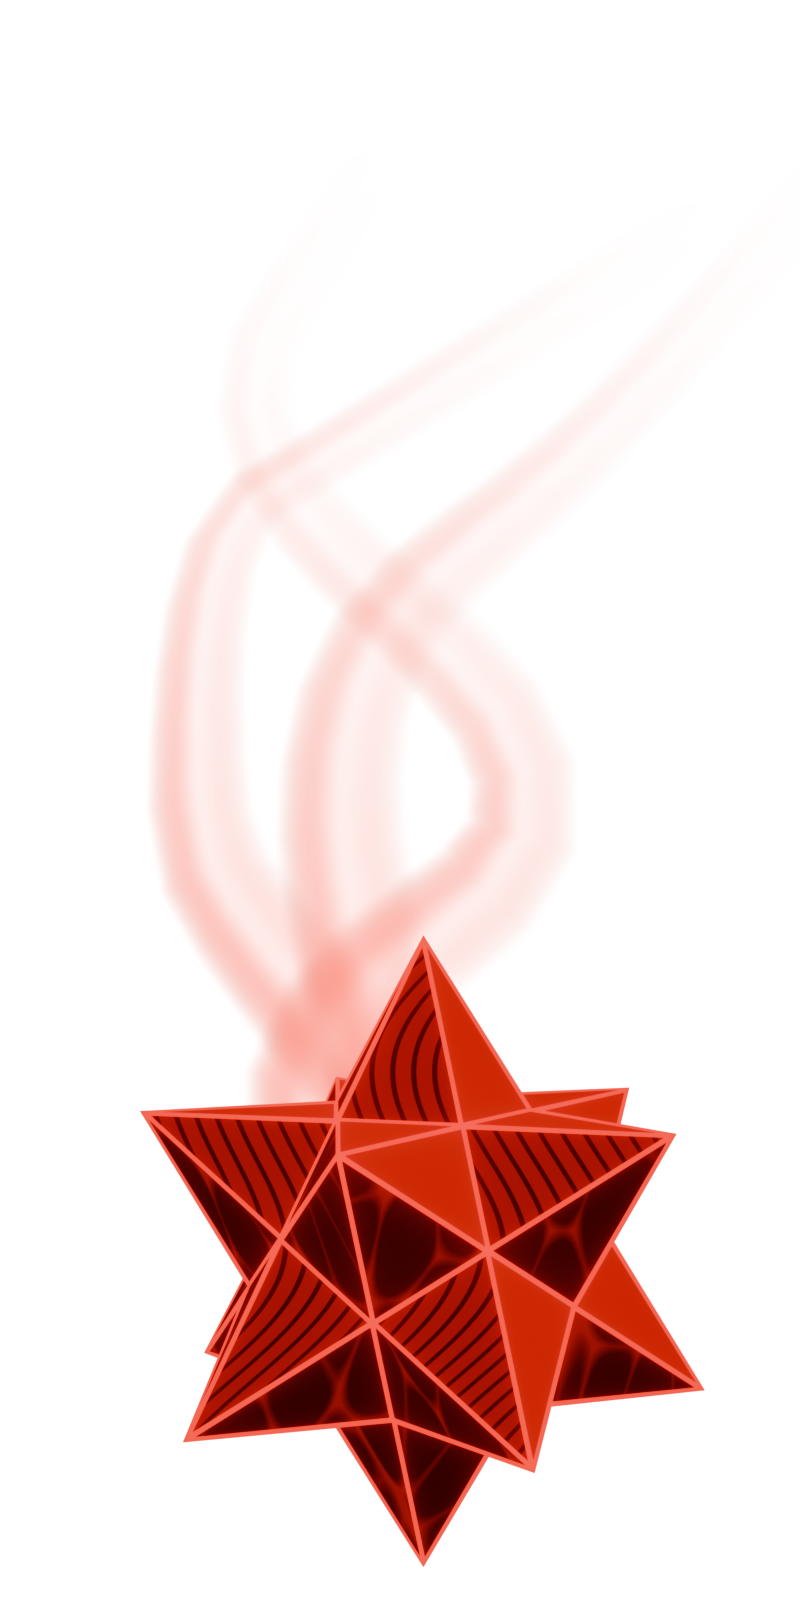
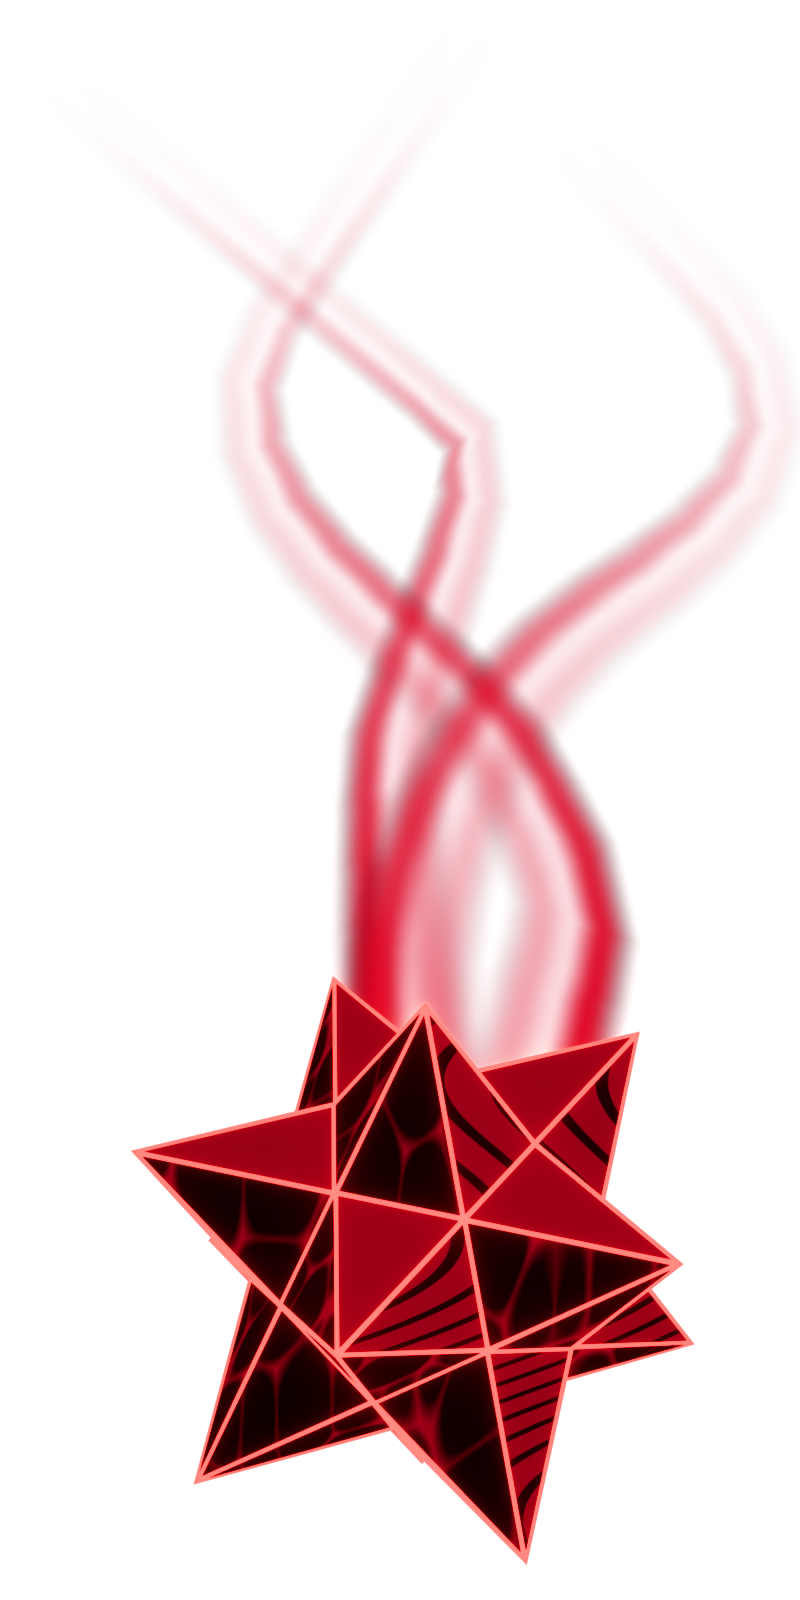
quality updates

Changed region(s): [[0.1562, 0.1562, 0.9688, 0.9688]]

diff --git a/skills.html b/skills.html
@@ -20,22 +20,29 @@
 	<main class="skills-container">
 		
 		<div class="flex-area" style="width: 100%; flex: 1 0 100%; height: fit-content; gap: 10px">
-			<h2>In general</h2>
+			<h2 class="comment">"Art is born from chaos, chaos is born from math"</h2>
 			<p>I see <span class="emphasis">math</span> and <span class="emphasis">science</span> 
 				as forms of <span class="emphasis">art</span> — this perspective is what fuels my passion and curiosity.</p>
 			<p>I have experience working both independently and in teams, with over four years of collaboration and leadership starting from high school.</p>
-			<p>I'm results-oriented and always eager to consider all ideas before moving forward.</p>
+			<p>I'm results-oriented and always eager to consider all ideas before moving forward, taking responsibility for my tasks.</p>
 		</div>
 		<div class="flex-area" style="gap: 20px; flex: 1 0 50%;">
-			<h2>Programming skills</h2>
+			<h2>Technical skills</h2>
 			<div style="display: flex; text-align: start; flex-direction: column; gap: 10px; max-width: 60%; min-width: fit-content;">
+				<p><span style="font-size: 30px;">C++</span> - <span class="emphasis">2.5 years</span> 
+					of experience, worked with GPU accelerated architecture using CUDA and OpenGL. 
+					Also familiar with newer standards C++17/20, and many libraries including ImGui and LibTorch, glm </p>
 				<p><span style="font-size: 30px;">C#</span> - <span class="emphasis">2.5 years</span> 
 					of experience with Unity and custom engines and frameworks</p>
-				<p><span style="font-size: 30px;">C++</span> - <span class="emphasis">1.5 years</span> 
-					of experience, worked with GLFW, OpenGL and SFML</p>
 				<p><span style="font-size: 30px;">Unity</span> - <span class="emphasis">2 years</span> 
 					of experience, worked in URP, HDRP, main areas are graphics, gameplay and project architecture</p>
 				<p><span class = "comment" style="font-size: 20px;">JavaScript - only for this website, never touching it again...</span></p>
+				<p><span style="font-size: 30px;">Tools</span></p>
+				<p><span class="emphasis">Git</span> - managed Git repositories with multiple other participants during uni projects</p>
+				<p><span class="emphasis">Nsight Graphics / RenderDoc</span> - GPU buffer state troubleshooting and analysis</p>
+				<p><span class="emphasis">Nsight Systems + NVTX</span> - CPU and GPU profiling and optimization</p>
+				<p><span class="emphasis">Cursor</span> - Most of my projects are AI-free, 
+					but I am familiar and have extensively used AI to accelerate code generation at work</p>
 			</div>
 		</div>
 		<div class="flex-area" style="gap: 20px; min-width: fit-content; flex: 1 0 50%;">
@@ -61,7 +68,7 @@
 			</div>
 			<div style="display: flex; width: 60%; justify-content: space-between; border-bottom: 2px solid white;">
 				<p>Dutch</p>
-				<p>Work in progress</p>
+				<p>A1</p>
 			</div>
 		</div>
 	</main>

diff --git a/TetraEngine.html b/TetraEngine.html
@@ -1,0 +1,21 @@
+<!DOCTYPE html>
+<html lang="en">
+  <head>
+    <meta charset="UTF-8" />
+
+    <meta name="description" content="Ivan Shychynov Personal Portfolio" />
+
+    <meta name="viewport" content="width=device-width, initial-scale=1.0" />
+    <title>Ivan Shychynov Personal Portfolio</title>
+    <link rel="stylesheet" href="css/index.css" />
+  </head>
+
+  
+
+
+  <script>
+    function openTab(tab) {
+      window.location = tab;
+    }
+  </script>
+</html>
